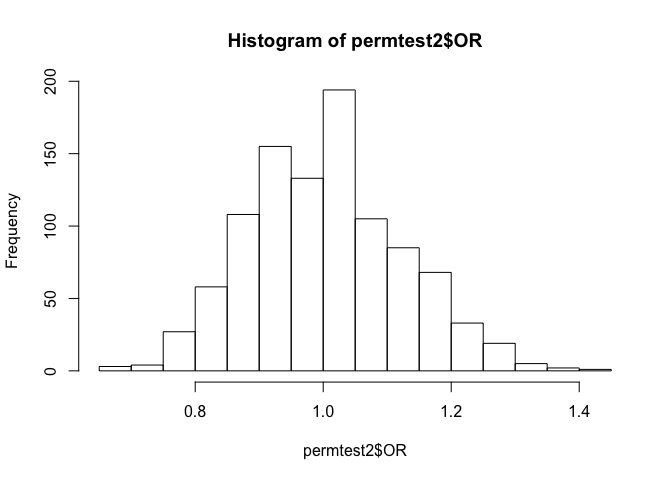
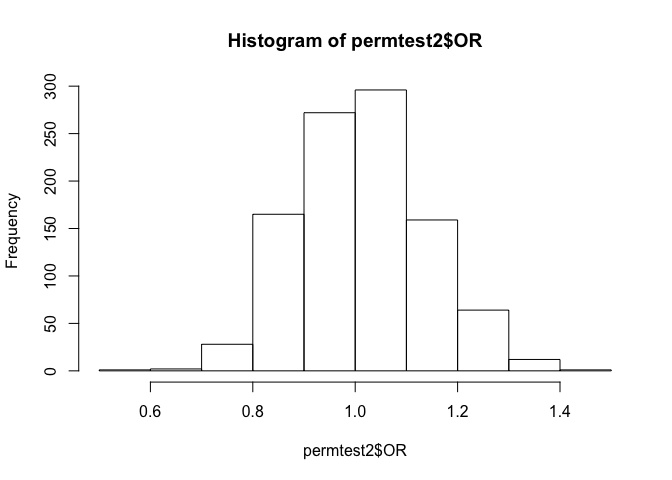
update to permtest

diff --git a/teaching/r/titanic/titanic_permtest.md b/teaching/r/titanic/titanic_permtest.md
@@ -2,8 +2,14 @@
 layout: page
 ---
 
+### Tests of association in 2x2 tables
+
 In this walk-through, you will revisit the Titanic data to learn about
-the concept of a permutation test.
+permutation tests. Key concepts and skills:  
+\* test statistic  
+\* relative risk  
+\* odds ratio  
+\* permutation test
 
 First download the TitanicSurvival.csv file and read it in. You can use
 RStudio's Import Dataset button, or the read.csv command:
@@ -38,9 +44,9 @@ status stratified by sex:
     ##   male   0.8090154 0.1909846
 
 This seems to suggest a strong association between survival status and
-sex. A natural way to quantify this association between the rows and
-columns of this table is by computing [relative
-risk](http://en.wikipedia.org/wiki/Relative_risk): that is, the
+sex. A natural *test statistic* to quantify this association between the
+rows and columns of this table is the [relative
+risk](http://en.wikipedia.org/wiki/Relative_risk) of dying: that is, the
 probability of dying for men, divided by the probability of dying for
 women. We can compute this as follows:
 
@@ -98,11 +104,11 @@ of letters:
     data.frame(shuffle(sesame_street), army)
 
     ##   shuffle.sesame_street.    army
-    ## 1                      A   alpha
-    ## 2                      B   bravo
-    ## 3                      C charlie
-    ## 4                      D   delta
-    ## 5                      E    echo
+    ## 1                      B   alpha
+    ## 2                      E   bravo
+    ## 3                      D charlie
+    ## 4                      A   delta
+    ## 5                      C    echo
 
 Try executing the line above a few times. Each time you'll get a
 different permutation of the Sesame Street alphabet, and therefore a
@@ -117,13 +123,13 @@ different times:
     head(titanic_shuffle, 10)
 
     ##    shuffle.TitanicSurvival.sex. TitanicSurvival.survived
-    ## 1                        female                      yes
+    ## 1                          male                      yes
     ## 2                          male                      yes
     ## 3                          male                       no
     ## 4                          male                       no
-    ## 5                          male                       no
-    ## 6                        female                      yes
-    ## 7                          male                      yes
+    ## 5                        female                       no
+    ## 6                          male                      yes
+    ## 7                        female                      yes
     ## 8                          male                       no
     ## 9                          male                      yes
     ## 10                         male                       no
@@ -138,12 +144,14 @@ follows:
     t1_shuffle = xtabs(~shuffle(sex) + survived, data=TitanicSurvival)
     relrisk(t1_shuffle)
 
-    ## [1] 1.055864
+    ## [1] 0.9946352
 
 Try executing the code block above a few times. You notice that each
 time you calculate the relative risk, you get something much closer to 1
 than for the actual data. Let's use a Monte Carlo simulation to repeat
-this process 1000 times:
+this process 1000 times. This will allow us to make a histogram that
+shows the sampling distribution of the relative risk under the null
+hypothesis of no assocation between sex and survival status.
 
     permtest1 = do(1000)*{
       t1_shuffle = xtabs(~shuffle(sex) + survived, data=TitanicSurvival)
@@ -152,12 +160,12 @@ this process 1000 times:
     head(permtest1)
 
     ##          RR
-    ## 1 0.9231372
-    ## 2 1.0000082
-    ## 3 1.0108670
+    ## 1 1.0675211
+    ## 2 0.9580408
+    ## 3 0.9039069
     ## 4 0.9735100
-    ## 5 0.9529538
-    ## 6 0.8944784
+    ## 5 1.0108670
+    ## 6 1.0558642
 
     hist(permtest1$RR)
 
@@ -167,12 +175,12 @@ When the cards are shuffled -- and therefore when any possible
 connection between sex and survival status is explicitly broken -- the
 relative risk almost never falls outside the interval (0.85, 1.15). This
 is pretty convincing evidence that the actual value we observed (about
-3) could not have arised due to chance.
+3) could not have arisen due to chance.
 
 ### Using other statistics in the permutation test
 
-One nice feature of the permutation test is that we can any measure of
-association we want. For example, we might prefer to use the [odds
+One nice feature of the permutation test is that we can use any measure
+of association we want. For example, we might prefer to use the [odds
 ratio](http://en.wikipedia.org/wiki/Odds_ratio) rather than the relative
 risk. Let's recall our table of proportions:
 
@@ -210,12 +218,12 @@ Let's now use the odds ratio in a permutation test.
     head(permtest2)
 
     ##          OR
-    ## 1 1.0000216
-    ## 2 0.9859985
-    ## 3 0.9056102
-    ## 4 0.8677125
+    ## 1 1.2343010
+    ## 2 0.8194182
+    ## 3 0.8801815
+    ## 4 0.9185747
     ## 5 1.2002824
-    ## 6 1.0142304
+    ## 6 0.9584985
 
     hist(permtest2$OR)
 
@@ -227,8 +235,8 @@ association between sex and survival status.
 
 ### The chi-squared statistic
 
-Finally, another common measure of association is the (chi-squared
-statistic)[<http://en.wikipedia.org/wiki/Pearson's_chi-squared_test#Calculating_the_test-statistic>].
+Finally, another common measure of association is the [chi-squared
+statistic](<http://en.wikipedia.org/wiki/Pearson's_chi-squared_test#Calculating_the_test-statistic>).
 This statistic compares the counts in each cell of the table to what
 would be expected under the hypothesis that the rows and columns are
 independent of each other.
